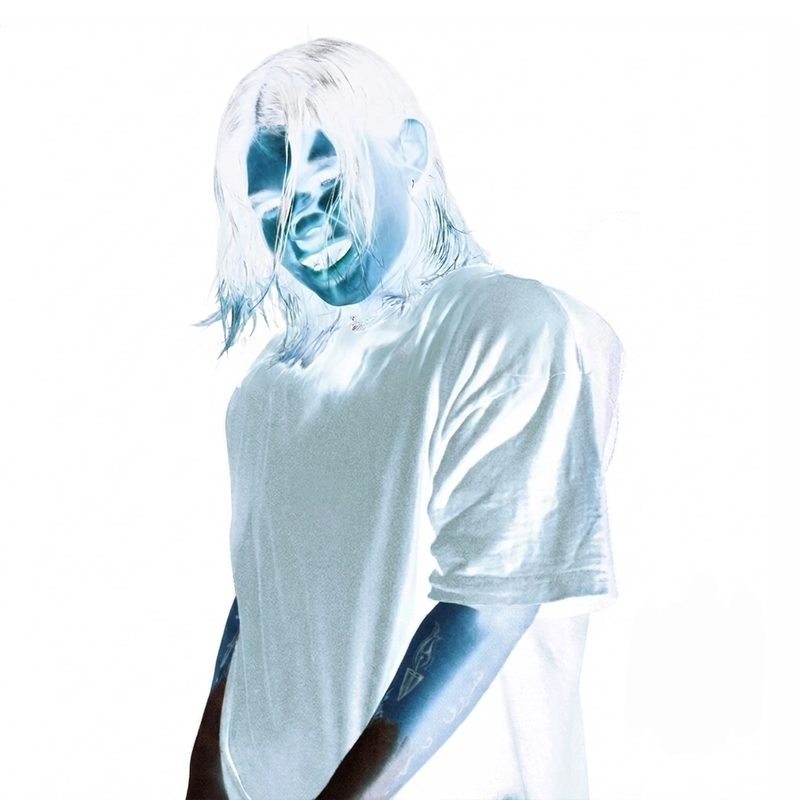
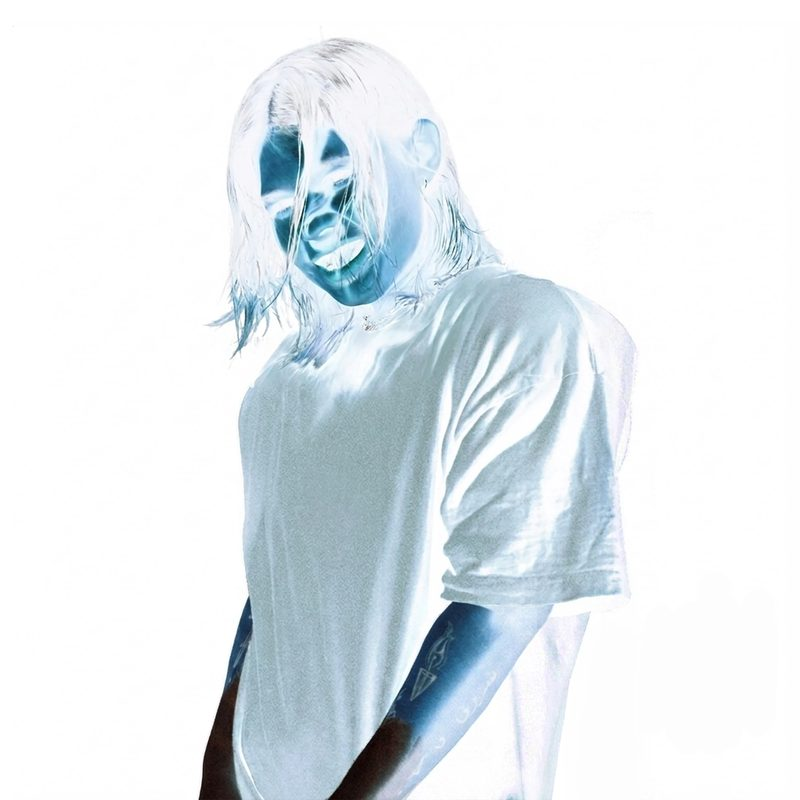
JASHIM: the final cover, on the front page (card, pop-up) and the press page

Changed region(s): [[0.2188, 0.0312, 0.8125, 1.0], [0.6562, 0.9375, 0.6875, 1.0], [0.6875, 0.9062, 0.7188, 0.9375]]

diff --git a/jashim/index.html b/jashim/index.html
@@ -103,7 +103,7 @@
         <div class="container">
         <div class="column">
     <center>
-		  <img class="cover" src="img/jashim-cover.jpg?v=2"> <br><br>
+		  <img class="cover" src="img/jashim-cover.jpg?v=3"> <br><br>
 		  <img class="title" src="img/jashim-title.svg?v=2" alt="JASHIM"> <br><br>
 		</center>
     JASHIM releases his self-titled debut album ‘JASHIM’, an exploration of courtship and love in Montreal’s latinx underground.
